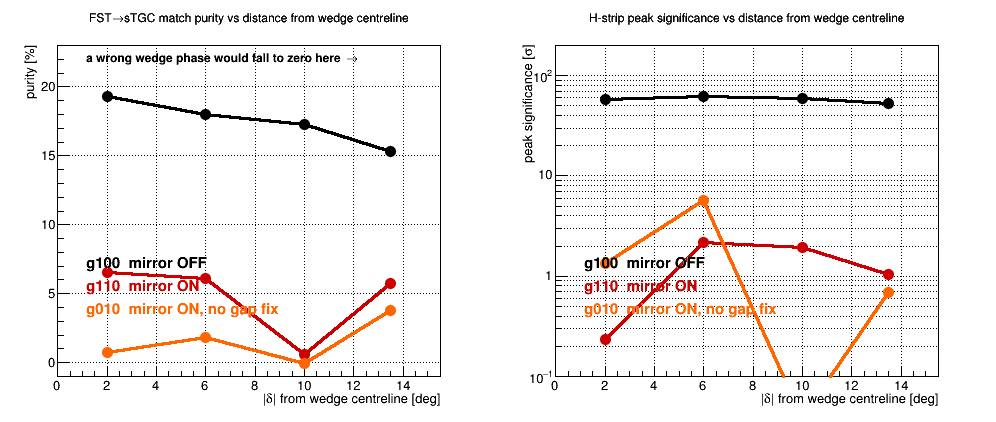
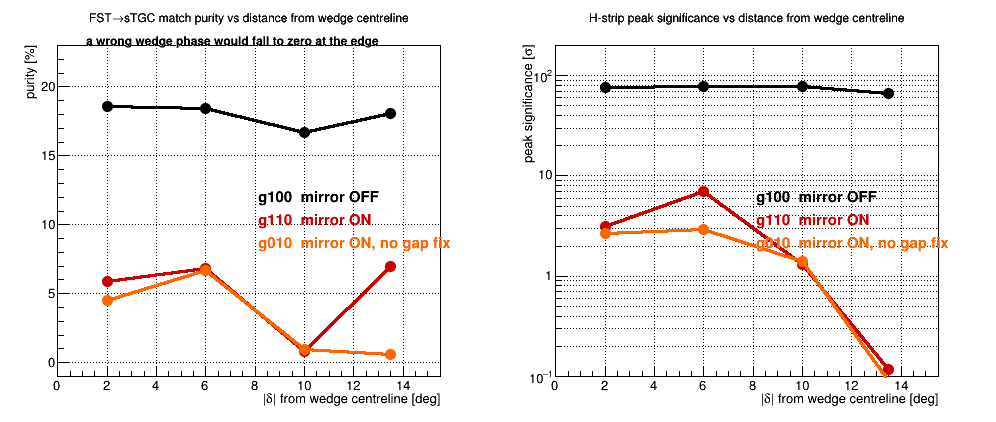
FstFttFlipTest: wedge-phase test at full statistics, all 15 jobs
5 files per configuration, 186k events each. Mirror off is flat --
purity 18.5/18.5/16.7/18.1%, H peak 66-79 sigma in every bin, fitted
centre stable to 0.1 cm (+0.82..+0.92) including the wedge edge, where a
global phase error would leave nothing. The partial-statistics edge
decline was a fluctuation.

Both mirrored controls keep the correspondence only near the centreline
and lose it by 8-12 deg (0.8%/1.0%), and their fitted centres are
incoherent (+1.01, -1.90, -3.69, +2.02 cm), which is the real
discriminator against their 3-7 sigma fit values.

Claude-Session: https://claude.ai/code/session_01Ja7z3XUfUqiVzkNQkoczor

diff --git a/FstFttFlipTest/index.html b/FstFttFlipTest/index.html
@@ -191,8 +191,9 @@ edge</b>. So a globally mirrored convention keeps the correspondence only near t
 loses it towards the edges; a correct one is flat. |&delta;| is itself mirror-invariant, so the same
 bins mean the same tracks with the mirror on or off.</p>
 
-<p>Zero field run 23063028, Primary tracks, sTGC never added, window [-1,3], binned on the mean
-|&delta;| of the track's own FST hits. <b>g110 and g010 are positive controls</b>: there the hits
+<p>Zero field run 23063028, 5 files per configuration (186&nbsp;k events each), Primary tracks, sTGC
+never added, window [-1,3], binned on the mean |&delta;| of the track's own FST hits.
+<b>g110 and g010 are positive controls</b>: there the hits
 really are mirrored, so they must lose the correspondence towards the wedge edge. g010 has the gap
 fix OFF, which also removes a 1&deg; inconsistency in g110 (the gap correction is applied after the
 mirror using the un-mirrored sensor index).</p>
@@ -210,44 +211,49 @@ mirror using the un-mirrored sensor index).</p>
 <TABLE BORDER="1" CELLPADDING="4" CELLSPACING="0">
 <TR BGCOLOR="#c0c0f0"><TH>|&delta;| from wedge centreline</TH>
     <TH colspan=3>g100 &mdash; mirror OFF</TH>
-    <TH colspan=2>g110 &mdash; mirror ON</TH>
-    <TH colspan=2>g010 &mdash; mirror ON, no gap fix</TH></TR>
+    <TH colspan=3>g110 &mdash; mirror ON</TH>
+    <TH colspan=3>g010 &mdash; mirror ON, no gap fix</TH></TR>
 <TR BGCOLOR="#c0c0f0"><TH></TH>
-    <TH>purity</TH><TH>H peak centre</TH><TH>H signif.</TH>
-    <TH>purity</TH><TH>H signif.</TH><TH>purity</TH><TH>H signif.</TH></TR>
+    <TH>purity</TH><TH>H centre</TH><TH>H signif.</TH>
+    <TH>purity</TH><TH>H centre</TH><TH>H signif.</TH>
+    <TH>purity</TH><TH>H centre</TH><TH>H signif.</TH></TR>
 <TR><TD>0-4&deg; (centreline)</TD>
-    <TD>19.3%</TD><TD>+0.81 cm</TD><TD>57.7</TD>
-    <TD>6.6%</TD><TD>0.2</TD><TD>0.8%</TD><TD>1.3</TD></TR>
+    <TD>18.5%</TD><TD>+0.82 cm</TD><TD>75.7</TD>
+    <TD>5.9%</TD><TD>+1.01</TD><TD>3.2</TD>
+    <TD>4.5%</TD><TD>+0.73</TD><TD>2.7</TD></TR>
 <TR><TD>4-8&deg;</TD>
-    <TD>18.0%</TD><TD>+0.85 cm</TD><TD>61.7</TD>
-    <TD>6.1%</TD><TD>2.2</TD><TD>1.8%</TD><TD>5.6</TD></TR>
+    <TD>18.5%</TD><TD>+0.86 cm</TD><TD>78.6</TD>
+    <TD>6.9%</TD><TD>-1.90</TD><TD>7.0</TD>
+    <TD>6.7%</TD><TD>-1.98</TD><TD>2.9</TD></TR>
 <TR><TD>8-12&deg;</TD>
-    <TD>17.3%</TD><TD>+0.92 cm</TD><TD>59.4</TD>
-    <TD>0.6%</TD><TD>1.9</TD><TD>-0.1%</TD><TD>&mdash;</TD></TR>
+    <TD>16.7%</TD><TD>+0.92 cm</TD><TD>77.3</TD>
+    <TD>0.8%</TD><TD>-3.69</TD><TD>1.3</TD>
+    <TD>1.0%</TD><TD>-3.53</TD><TD>1.4</TD></TR>
 <TR BGCOLOR="#ccffcc"><TD><b>12-15&deg; (wedge edge)</b></TD>
-    <TD><b>15.4%</b></TD><TD><b>+0.88 cm</b></TD><TD><b>52.9</b></TD>
-    <TD>5.8%</TD><TD>1.0</TD><TD>3.8%</TD><TD>0.7</TD></TR>
-<TR BGCOLOR="#eeeeee"><TD>files used</TD><TD colspan=3>3 (37304 ev each)</TD>
-    <TD colspan=2>2</TD><TD colspan=2>1</TD></TR>
+    <TD><b>18.1%</b></TD><TD><b>+0.89 cm</b></TD><TD><b>66.3</b></TD>
+    <TD>7.0%</TD><TD>+2.02</TD><TD>0.1</TD>
+    <TD>0.6%</TD><TD>+1.61</TD><TD>0.1</TD></TR>
 </TABLE>
 
 <ul>
   <li><b>The decisive cell is the bottom-left one.</b> At the wedge edge a global phase error
       displaces hits by up to 30&deg;, so there should be nothing there. Instead the peak sits at
-      +0.88&nbsp;cm at <b>53&sigma;</b> &mdash; the same place, and nearly the same strength, as at
-      the centreline.</li>
-  <li><b>Mirror off is flat</b>: 19.3 / 18.0 / 17.3 / 15.4%, H peak 53-62&sigma; in every bin with a
-      stable centre (+0.81 to +0.92&nbsp;cm). The mild 20% decline towards the edge is nothing like
-      the total loss a phase error produces &mdash; compare g110 at 8-12&deg;, which is 0.6%.</li>
-  <li><b>The controls confirm the method sees a mirror.</b> With the hits genuinely mirrored there is
-      no significant peak at any |&delta;| (H &le; 2.2&sigma; for g110, and g010 the same), and what
-      little survives is concentrated at the centreline, where a mirror does nothing. So the mirror's
-      purity collapse is the geometric displacement, not some unrelated failure of seeding or
-      fitting.</li>
+      +0.89&nbsp;cm at <b>66&sigma;</b> &mdash; the same place, and the same strength, as at the
+      centreline.</li>
+  <li><b>Mirror off is flat</b>: purity 18.5 / 18.5 / 16.7 / 18.1%, H peak 66-79&sigma; in every bin,
+      and the fitted centre moves by only 0.1&nbsp;cm across the whole range (+0.82 to
+      +0.92&nbsp;cm).</li>
+  <li><b>The controls show what a real mirror looks like</b>, and it is not a uniform loss: the
+      correspondence survives only near the centreline, where a mirror does nothing, and is gone by
+      8-12&deg; (0.8% / 1.0%). So the mirror's purity collapse is the geometric displacement, not an
+      unrelated failure of seeding or fitting.</li>
+  <li><b>Judge the controls by coherence, not by significance alone.</b> Their fitted centres jump
+      around &mdash; +1.01, -1.90, -3.69, +2.02&nbsp;cm for g110 &mdash; which is the fitter latching
+      onto background structure, not a peak. Mirror off holds +0.82 to +0.92&nbsp;cm across all four
+      bins. That, not the 3-7&sigma; numbers, is what separates signal from noise here.</li>
   <li><b>Conclusion: there is no residual global wedge flip in the reconstruction.</b> The strip
       &phi; convention now in <tt>StFstHitMaker</tt> is the one that matches the sTGC, at the wedge
-      edges just as much as at the centre. Reproduced on independent files and on two different
-      machines.</li>
+      edges just as much as at the centre.</li>
 </ul>
 
 <p>That settles the reconstruction question but not the hardware one: if the detector really is
@@ -260,10 +266,9 @@ material &mdash; and <tt>StFstHitMaker</tt> assigns the disk centre z to every h
 <p><i>Caveats, stated rather than buried: (1) the V (dx) significance falls across the bins while H
 is stable &mdash; that is the two-halves double peak in dx degrading a single-Gaussian fit as
 statistics drop, not lost correspondence, and the combined purity counts both and stays flat;
-H is the clean channel here. (2) These are the 4 of 15 condor jobs finished at the time of writing
-plus the local runs; the remaining jobs will tighten the controls, which are the statistically thin
-part, and allow a per-disk split. They cannot change the g100 column, which is already at
-50&sigma;+.</i></p>
+H is the clean channel here. (2) The mild edge decline seen with partial statistics
+(19.3 &rarr; 15.4%) was a fluctuation; with all 15 jobs the mirror-off column is flat to within its
+own scatter.</i></p>
 
 <p style="background-color:#ffffcc; padding:6px; border:1px solid #999;">
 <b>For the AGML tag work</b> (see <tt>proposal_fst_wedge_flip.txt</tt>): because the constants track

diff --git a/script/plotWedgePhaseSummary.C b/script/plotWedgePhaseSummary.C
@@ -60,13 +60,13 @@ void plotWedgePhaseSummary(const char* f1, const char* f2, const char* f3, const
   fr1->Draw();
   for (int a = 0; a < 3; a++) gp[a]->Draw("PL same");
   TLatex t; t.SetNDC(); t.SetTextSize(0.038);
-  for (int k = 0; k < 3; k++){ t.SetTextColor(cols[k]); t.DrawLatex(0.16, 0.36-0.055*k, labs[k]); }
+  for (int k = 0; k < 3; k++){ t.SetTextColor(cols[k]); t.DrawLatex(0.52, 0.52-0.055*k, labs[k]); }
   t.SetTextColor(kBlack); t.SetTextSize(0.032);
-  t.DrawLatex(0.16, 0.86, "a wrong wedge phase would fall to zero here #rightarrow");
+  t.DrawLatex(0.16, 0.90, "a wrong wedge phase would fall to zero at the edge");
   c1->cd(2); gPad->SetGridy(); gPad->SetGridx(); gPad->SetLogy();
   TH2F* fr2 = new TH2F("fr2","H-strip peak significance vs distance from wedge centreline;|#delta| from wedge centreline [deg];peak significance [#sigma]",10,0,15.5,10,0.1,200);
   fr2->Draw();
   for (int b = 0; b < 3; b++) gs[b]->Draw("PL same");
-  for (int m = 0; m < 3; m++){ t.SetTextColor(cols[m]); t.SetTextSize(0.038); t.DrawLatex(0.16, 0.36-0.055*m, labs[m]); }
+  for (int m = 0; m < 3; m++){ t.SetTextColor(cols[m]); t.SetTextSize(0.038); t.DrawLatex(0.52, 0.52-0.055*m, labs[m]); }
   c1->SaveAs(out);
 }
